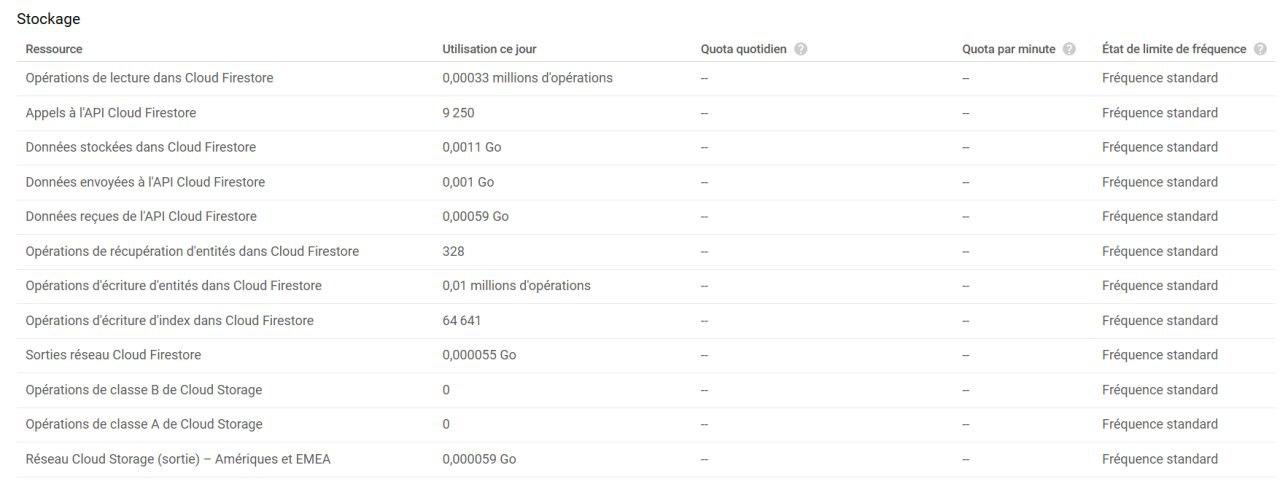
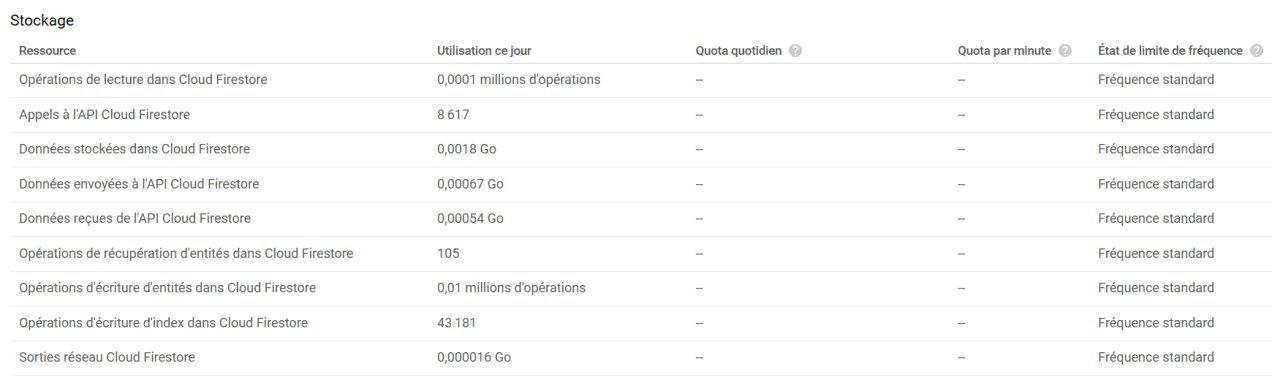
Report finished

diff --git a/README.md b/README.md
@@ -183,15 +183,16 @@ Authors : Baptiste Hardrick & David Jaquet
     - Datas stored in Cloud Firestore : Size of the datas stored
     - Datas sent to the API Cloud Firestore : Size of the elements stored
     - Datas received from Cloud Firestore : Size of the element received from Cloud Firestore. It is the result of the request. The server can send a status `OK` for example.
-    - Cloud Firestore entity fetch ops : 
-    - Cloud Firestore entity writes ops :
-    - Cloud Firestore index write ops :
-    - Cloud Firestore network egresse :
-    - Cloud Storage class B ops :
-    - Cloud Storage class A ops :
-    - Cloud Storage network (output) - America and EMEA :
+    - Cloud Firestore entity fetch ops : The number of queries or getch calls to the data store
+    - Cloud Firestore entity writes ops : The number of write operations on the data store
+    - Cloud Firestore index write ops : Number of indexes created by the datastore when an entity is created and no index is provided
+    - Cloud Firestore network egresse : Traffic outgoing the Google internal network
     
-    ![Sockage Quota](C:\Users\David\Desktop\HEIG\CLD\GAE_01\assets\quotaStock.jpg)
+    ![Sockage Quota](./assets/quotaStock.jpg)
     For both screenshots, it is important to notice that there is no daily quota and no quota by minute. It is because our instances are running since least 24 hours.
+    We can find below the billing of the transaction. As we can see, we have no cost. This is because the the bill is not updated. The bill will be update 17 hours after the moment where the screenshot was taken. We firstly thought that the lack of cost was due to a insufficient usage of the resources, but the notice at the top of the screenshot change our mind.
+    ![Bill](./assets/Bill.jpg)
 
 - Let's suppose you become suspicious that the algorithm for the automatic scaling of instances is not working correctly. Imagine a way in which the algorithm could be broken. Which measures shown in the console would you use to detect this failure?
+
+  - On the left side pannel, under App Engine, we can see that there is an Instances board. By clicking on it, we can see if autoscaled instances were created and correlate it with a time when there was a huge load. We can then conclude that the autoscaling algorithm is not working if no instance was created during a high load period.
